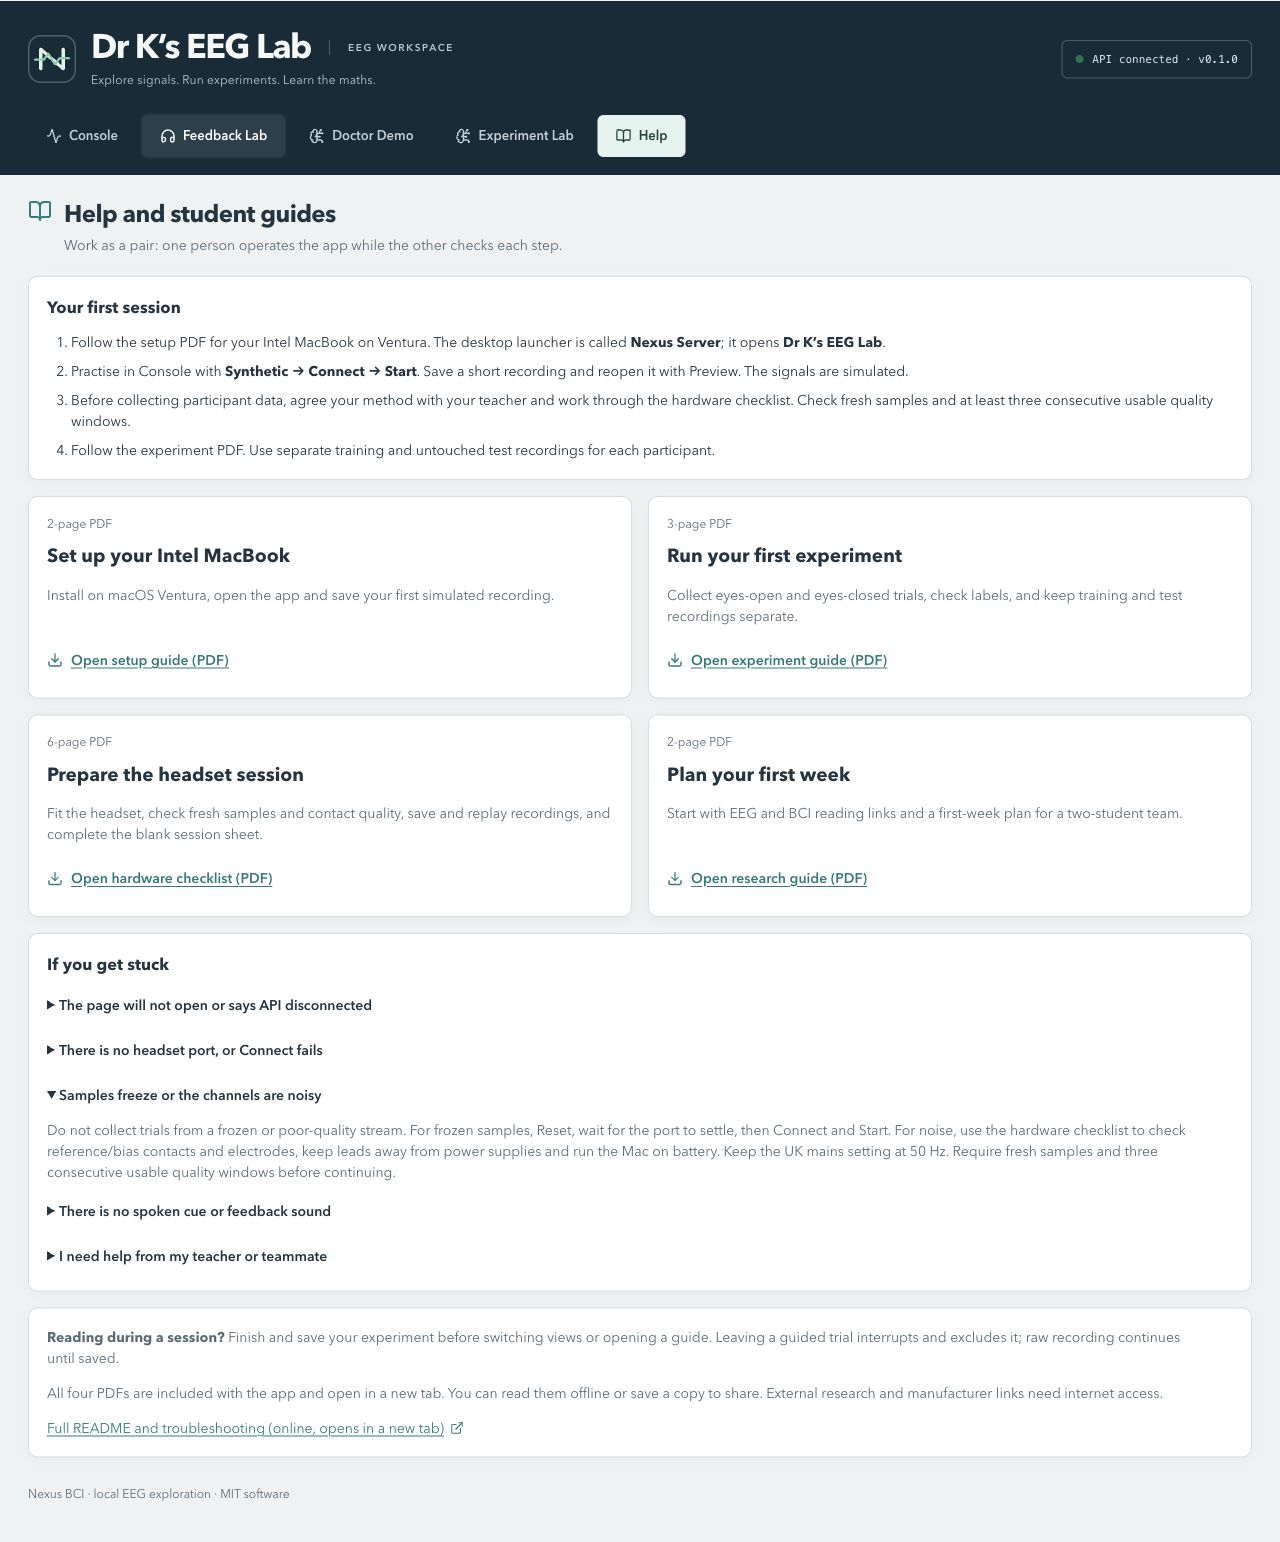
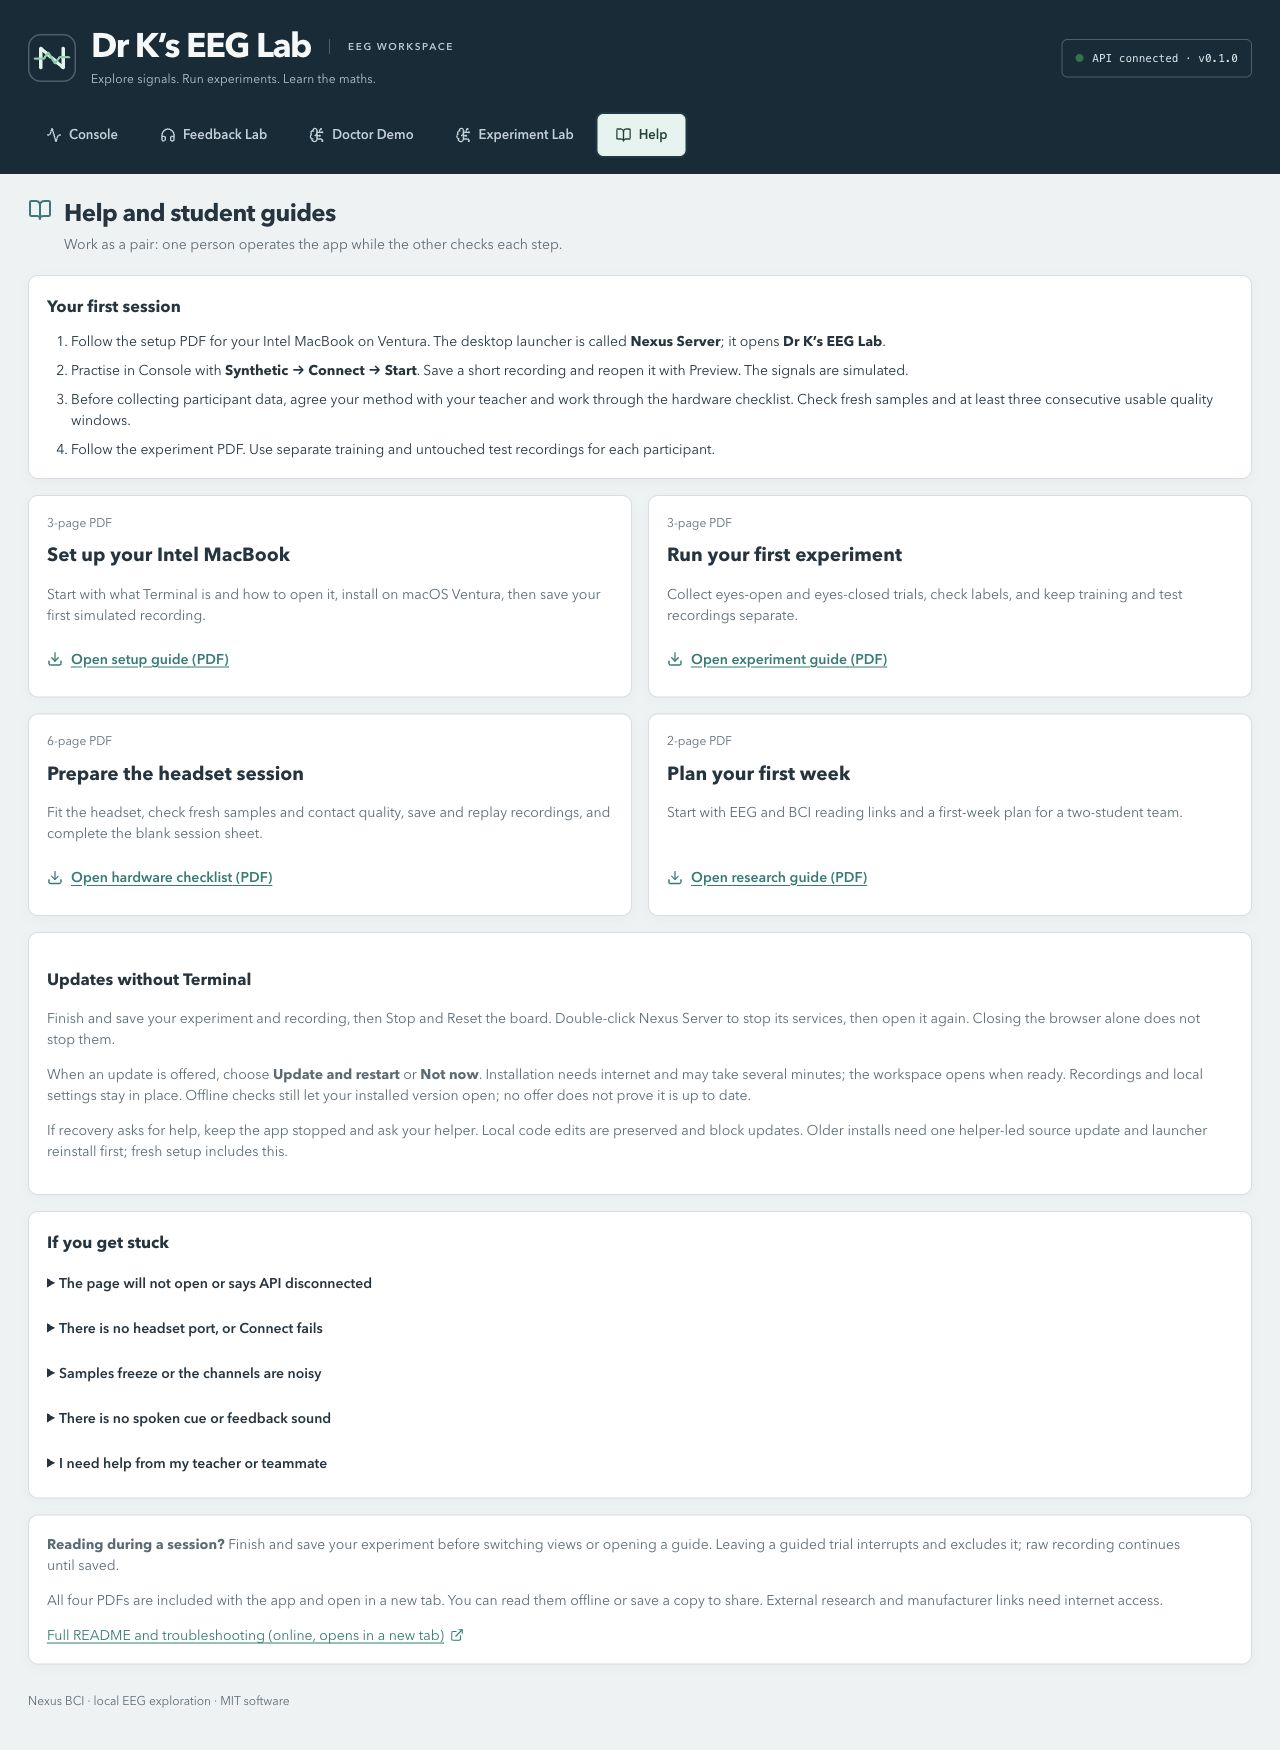
Document student updates and run updater safety checks in CI

diff --git a/frontend/src/StudentHelp.tsx b/frontend/src/StudentHelp.tsx
@@ -47,6 +47,12 @@ export function StudentHelp() {
         </a>
       </article>)}
     </div>
+    <div className="panel student-help__notes">
+      <h3>Updates without Terminal</h3>
+      <p>Finish and save your experiment and recording, then Stop and Reset the board. Double-click Nexus Server to stop its services, then open it again. Closing the browser alone does not stop them.</p>
+      <p>When an update is offered, choose <strong>Update and restart</strong> or <strong>Not now</strong>. Installation needs internet and may take several minutes; the workspace opens when ready. Recordings and local settings stay in place. Offline checks still let your installed version open; no offer does not prove it is up to date.</p>
+      <p>If recovery asks for help, keep the app stopped and ask your helper. Local code edits are preserved and block updates. Older installs need one helper-led source update and launcher reinstall first; fresh setup includes this.</p>
+    </div>
     <div className="panel student-help__troubleshooting">
       <h3>If you get stuck</h3>
       <details><summary>The page will not open or says API disconnected</summary>

diff --git a/project_status.md b/project_status.md
@@ -2,11 +2,12 @@
 
 Public repository: [zook111/Nexus_BCI](https://github.com/zook111/Nexus_BCI).
 
-## Student updater proposal, 19 October 2026
+## Offered student updates, 19 October 2026
 
-- Prepared `docs/superpowers/specs/2026-10-19-student-updates-design.md` for launcher-based update offers before starting the app. A fresh builder check found no material unanswered implementation questions beyond the user's pending offered-versus-automatic update choice.
-- The proposal preserves offline startup and the existing stop action, refuses active services or local source conflicts, pins the offered protected-main revision, and requires recoverable source/dependency backups and failure tests.
-- This is design work only. No updater code, dependency installation, service restart or software update has been performed. Implementation and review-ready PR remain pending the behaviour choice.
+- The user approved offered Update and restart behaviour. Native startup checks the protected public main branch, offers the pinned revision before starting services, and keeps offline/current-version startup usable. There is no HTTP software-install endpoint and no silent installation.
+- Git fast-forward/local-edit/ignored-file protections, an atomic transaction journal, recoverable dependency/code backups and ordinary failure rollback preserve recordings and local settings. Existing app processes/ports block installation; the launcher kernel lock covers update and startup. A stable copied worker uses base Python and macOS curl TLS trust.
+- The updater refreshes the correct installed shortcut/icon, including a custom app path. Student README/Help/setup instructions cover save/stop/open, Update and restart/Not now, offline behaviour and helper-led bootstrap for pre-feature installs.
+- Verification so far: 35 updater tests pass, using real temporary Git repos, real virtual-environment rollback and isolated update/recovery control fixtures. Native launcher/kernel-lock/updater-result tests and native installer/signing/quoted-path tests pass. Backend Ruff and 164 tests, frontend lint/110 tests/production build pass. The three-page setup PDF was rendered and its commands, six links and production asset checked. In-app Help and the PDF opening were verified at 1280×720 without app warnings/errors; the README screenshot is refreshed. Fresh branch review and required CI remain pending. No real checkout was updated by these tests, no participant data was used and independent Intel/Ventura/physical EEG validation remains outstanding.
 
 ## EEG Lab Dock icon, 19 October 2026
 

diff --git a/README.md b/README.md
@@ -83,6 +83,16 @@ To install manually, create a Python 3.12+ `.venv`, install `pip install -e 'bac
 
 </details>
 
+## Updates without Terminal
+
+The Desktop launcher checks for a newer reviewed `main` version before starting the app. Choose **Update and restart** to install the app and guides, refresh the shortcut/icon and open the workspace, or **Not now** to use the installed version. Installation can take several minutes and needs internet. A failed/offline check still lets the installed version open; no offer does not prove you are up to date.
+
+Finish and save the experiment/recording first. Stop and Reset the board, double-click **Nexus Server** to stop its services, then open it again to receive an update offer. Closing the browser alone does not stop the app. Updates never stop an active session to install themselves.
+
+The updater refuses local code edits, unexpected files, divergent branches, conflicting processes and incoming files that would replace local data/settings. It keeps a recovery copy of code/dependencies and restores the previous version after an ordinary installation/startup failure. If recovery needs help, keep the app stopped and follow the message. Recordings and local settings are not replaced. Only the protected public repository is used; system Python/Node are not upgraded.
+
+For older installations, a helper must first bring the source folder to the reviewed `main` version and rerun `./script/install_desktop_launcher.sh` once. Fresh installs include this behaviour. This is a source-install updater, not a standalone DMG installer. Local stage/exit-code logs are under `~/Library/Application Support/Mindmeld Launcher/updates/<checkout-id>/update.log`; they omit command output and credentials.
+
 ## Turn it into a school project
 
 A useful first question is:

diff --git a/docs/student-start-here.md b/docs/student-start-here.md
@@ -50,6 +50,18 @@ Create a training recording and a separate, untouched test recording for each pa
 
 Before packing away, save recordings and labels, reopen the saved recordings, and follow the checklist's backup steps. Keep raw EEG, exports and completed participant sheets out of GitHub. A PDF downloaded from the repository is shareable; a participant's recording is private project data.
 
+## Keep the app and guides updated
+
+You do not need to type Git commands after setup:
+
+1. Finish and save your experiment and recording. Stop and Reset the board.
+2. Double-click **Nexus Server** to stop the services, then open it again. Closing the browser alone does not stop them.
+3. If an update is offered, choose **Update and restart**. Keep the Mac awake and online while it installs; the workspace opens when ready. Choose **Not now** to use the installed version.
+
+Offline checks still let the installed app open. No offer can mean the check was unavailable, rather than proving the app is current. Updates are not installed during a live session, and recordings/local settings stay in place. Local code edits or conflicting processes block an update rather than being discarded.
+
+If installation fails, follow the message. The updater attempts to reopen the previous version. If it asks for help, keep the app stopped and ask your helper; do not delete the project folder or recovery copies. An installation from before this feature needs one helper-led source update and launcher reinstall first. Fresh setup includes it.
+
 ## If you get stuck
 
 Try the matching step below. The installed app's **Help** tab also contains troubleshooting that works offline.

diff --git a/docs/intel-ventura-setup.md b/docs/intel-ventura-setup.md
@@ -79,6 +79,18 @@ cd ~/Documents/nexus
 
 Once installation is finished, you can normally open the app from the Desktop launcher without typing commands.
 
+## Keep the app and guides updated
+
+You will not need to type Git commands for everyday updates.
+
+1. Finish and save your experiment and recording. Stop and Reset the board. Double-click **Nexus Server** to stop its services; closing the browser alone does not stop them.
+2. Open **Nexus Server** again. If an update is offered, choose **Update and restart**, or **Not now** to use your installed version.
+3. Keep the Mac awake and online while an update installs. This may take several minutes. The workspace opens when ready; recordings and local settings stay in place.
+
+Offline checks still let the installed app open. No offer can mean the check was unavailable. Local code edits block updates rather than being discarded. If installation fails, the updater tries to reopen the previous version. If it asks for help, keep the app stopped and ask your helper. Do not delete the project folder or recovery copies.
+
+Older installations need one helper-led source update and launcher reinstall to gain this feature. Fresh setup includes it.
+
 <!-- pagebreak -->
 
 # Your first recording
